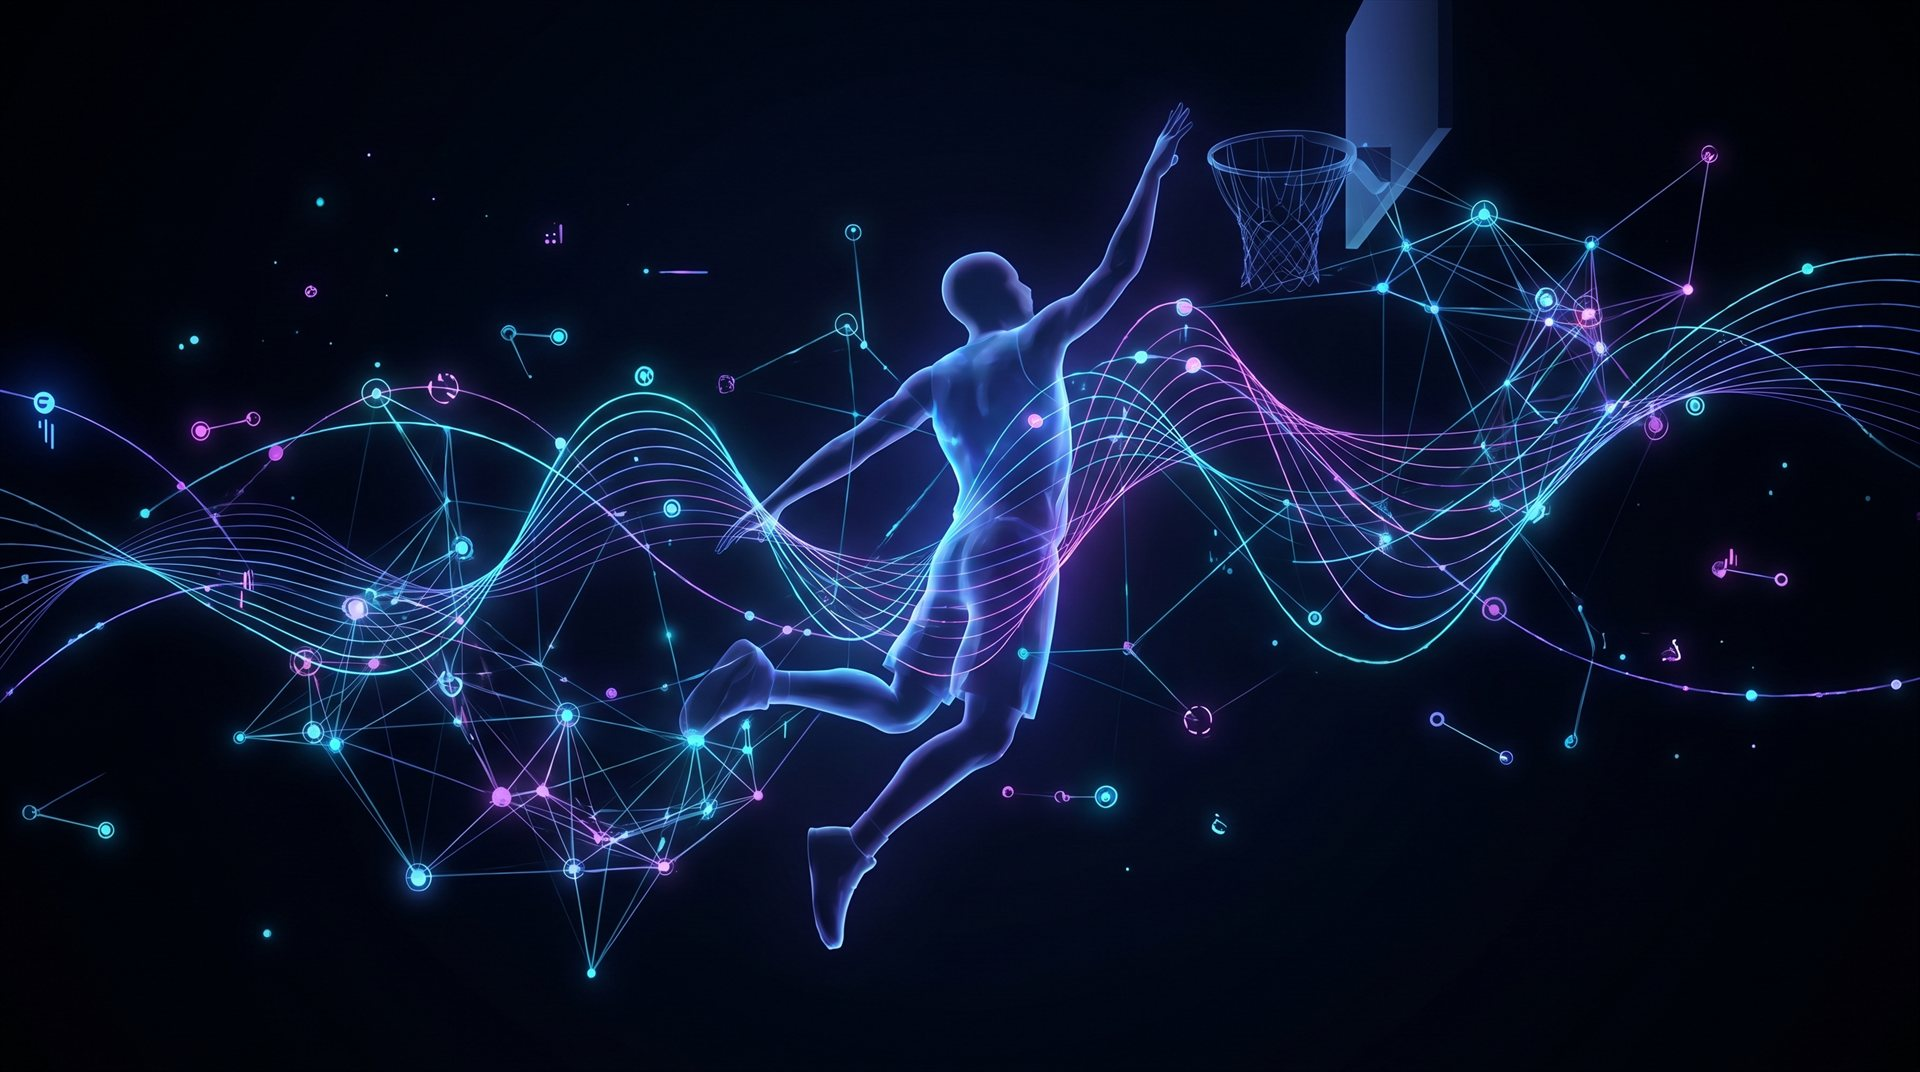
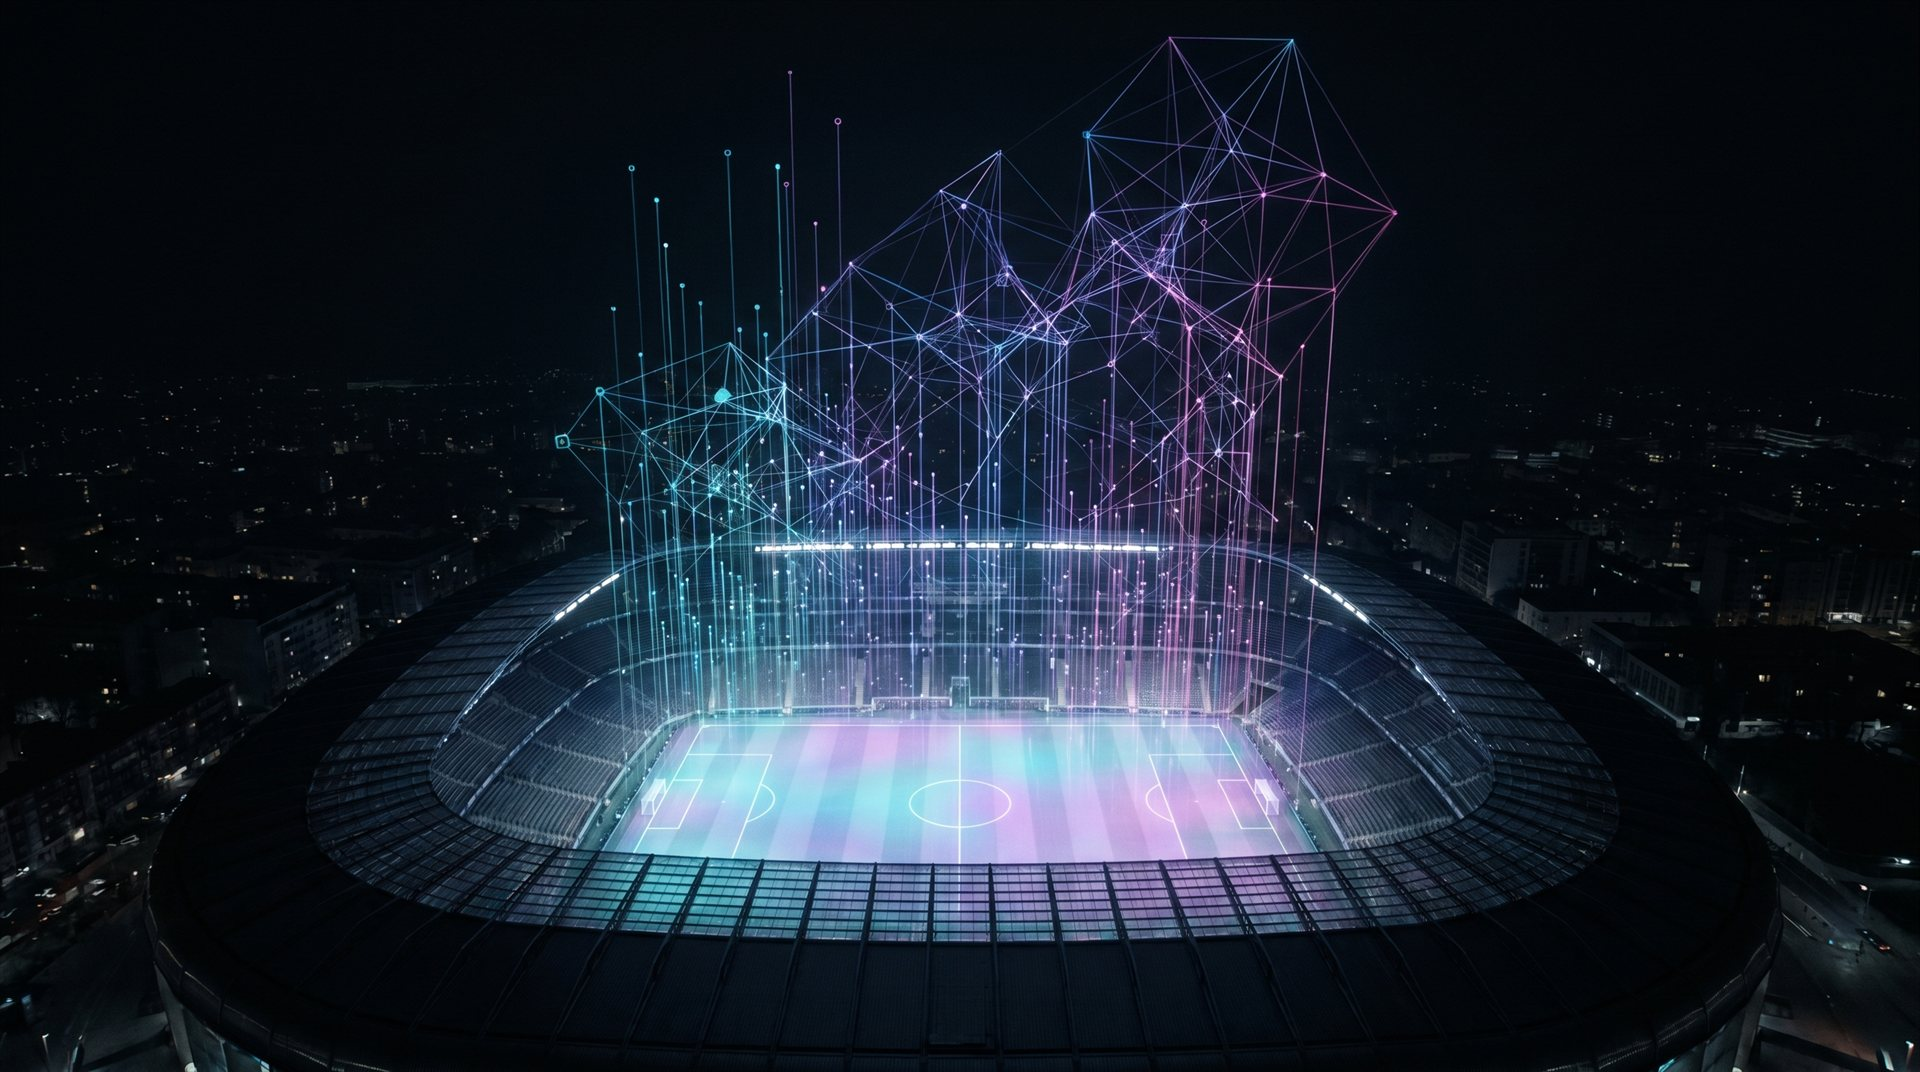
Content polish: restore hero title, remove Babe Ruth, tighten copy
Home page:
- Restore "Revolutionizing Sports Finance" as the hero h1
- New lead copy: tokenize cards / trade with every game / Solana
- Pitch section reframed: "Physical cards become digital assets"
- Stat label: "Vault Partners Onboarded" (was ungrammatical "Onboarding")

Babe Ruth removal: replaced every reference (7 total across home,
how-it-works, why-tokenize, whitepaper) with generic phrasing —
"a million-dollar card", "a card worth millions", "whole card value".

Oracle:
- Regenerated hero image: stadium-at-night with data streams
  (replaces the basketball-player silhouette)
- Tightened museum/stock compare copy (less marketing fluff)
- Viral-moments card rephrased ("your marketing engine" -> cleaner)

Whitepaper rewrites (was verbatim from the owner brief):
- Executive Summary
- 3-step workflow paragraphs
- Presale Phases intro
- Oracle intro + museum/stock analogy

Spacing: section vertical padding reduced
  desktop 120 -> 80px, tablet 80 -> 60px, mobile 60 -> 44px
  .wp-section 56 -> 40px, .benefit-row 56 -> 40px

Fix: for-collectors heading "Five wins" -> "Six wins" (matches the
6 cards in the grid).

diff --git a/whitepaper.html b/whitepaper.html
@@ -55,8 +55,8 @@
   <!-- Executive Summary -->
   <section class="wp-section reveal">
     <h2>Executive Summary</h2>
-    <p>Sports Pay Coin (SPC) transforms physical sports cards into dynamic, tradable assets through fractional ownership, dual-token utility, and real-time performance pricing. The result: liquidity for collectors, access for fans, and a 24/7 market that reacts to every game, every play, every moment.</p>
-    <p>This whitepaper covers the tokenization workflow, the Sports Oracle that powers dynamic pricing, our token economics, presale structure, and the roadmap to a live exchange.</p>
+    <p>Sports Pay Coin (SPC) takes high-value physical sports cards and turns them into liquid, fractional, on-chain assets. The exchange runs 24/7. A Sports Oracle prices each token to live game performance. Collectors get liquidity, fans get access, and dealers get a market they can move size on without discounting inventory.</p>
+    <p>This whitepaper covers the tokenization workflow, the Sports Oracle, the token economics, the presale structure, and the roadmap to a live exchange.</p>
   </section>
 
   <!-- The Problem -->
@@ -71,7 +71,7 @@
       <div class="wp-card">
         <div class="ic">🚪</div>
         <h3>Locked-Out Fans</h3>
-        <p>A $6M Babe Ruth or a million-dollar LeBron rookie is unreachable for the everyday fan. The collector market has become a club for the wealthy.</p>
+        <p>A million-dollar rookie card is unreachable for the everyday fan. The collector market has become a club for the wealthy.</p>
       </div>
       <div class="wp-card">
         <div class="ic">🎭</div>
@@ -116,13 +116,13 @@
     <h2>The Tokenization Workflow</h2>
 
     <h3>Step 1: Asset Initiation &amp; Vaulting</h3>
-    <p>The user submits their high-value sports memorabilia or card to one of our specialized, partnered vault facilities. These established professional vaults ensure physical security and authenticity from the moment of receipt.</p>
+    <p>You ship your card to one of our partnered vault facilities. They handle authentication, climate-controlled storage, and full insurance from the moment it arrives. Vaults are established collectibles facilities — not something we built from scratch.</p>
 
     <h3>Step 2: Certification &amp; Digital Minting</h3>
-    <p>The vault partner conducts rigorous certification — high-resolution imaging, physical authentication, grading verification. Once certified, the asset's unique data is minted as a tokenized asset on the Sports Pay Coin blockchain, creating an immutable digital twin that serves as proof of ownership and provenance.</p>
+    <p>The vault partner authenticates the card, grades it if needed, and produces high-resolution imaging. Those records get minted on-chain as a digital twin — proof of ownership and provenance that can't be altered or faked.</p>
 
     <h3>Step 3: Liquidity &amp; Exchange Listing</h3>
-    <p>The newly tokenized asset goes live on our proprietary exchange. Users can buy, sell, or trade the asset instantly using Sports Pay Coin as the native currency — unlocking liquidity previously impossible with physical collectibles.</p>
+    <p>The token lists on the SPC exchange. Anyone can buy, sell, or trade it — whole or fractional — using SPC as the native currency. Settlement is instant. No more waiting weeks for an auction to close, or paying 10% to a house to do it.</p>
   </section>
 
   <!-- Tokenomics -->
@@ -161,7 +161,7 @@
   <!-- Presale Phases -->
   <section class="wp-section reveal">
     <h2>Presale Phases</h2>
-    <p style="max-width: 70ch; margin-bottom: 28px;">Sports Pay Coin launches through a structured four-phase presale to ensure fair distribution and progressive community building. Each phase offers unique opportunities for early supporters.</p>
+    <p style="max-width: 70ch; margin-bottom: 28px;">The SPC presale runs in four phases. Earlier phases get better pricing and bigger bonuses, in exchange for committing before the public launch.</p>
 
     <div class="wp-grid-4">
       <div class="wp-phase-card first">
@@ -218,7 +218,7 @@
       <div class="wp-card">
         <div class="ic">🃏</div>
         <h3>Fractional Card Ownership</h3>
-        <p>A $6M Babe Ruth card split into a million $6 shares. Anyone can own a piece of the cards they grew up watching.</p>
+        <p>A million-dollar card split into thousands of affordable shares. Anyone can own a piece of the cards they grew up watching.</p>
       </div>
       <div class="wp-card">
         <div class="ic">📊</div>
@@ -241,9 +241,9 @@
   <!-- The Oracle -->
   <section class="wp-section reveal">
     <h2>The Sports Oracle</h2>
-    <p style="max-width: 70ch;">The Sports Oracle is a trusted data feed that brings real-world sports information on-chain — final scores, player statistics, injury reports, social sentiment, and betting odds. This data feeds smart contracts that automatically adjust token prices based on predefined rules.</p>
+    <p style="max-width: 70ch;">The Sports Oracle is the data feed that brings real-world sports information on-chain — final scores, player statistics, injury reports, social sentiment, and betting odds. Smart contracts read that feed and adjust token prices according to rules set in advance, with no human in the loop.</p>
 
-    <p style="max-width: 70ch; margin-top: 14px;"><em>Without an oracle: your token price moves like a museum painting — only when someone buys or sells. With an oracle: your token price moves like a public stock — reacting instantly to games, news, and fan sentiment.</em></p>
+    <p style="max-width: 70ch; margin-top: 14px;"><em>Without an oracle, a tokenized card behaves like a museum painting — its price only moves when someone buys or sells. With an oracle, it behaves like a public stock — reacting to games, news, and sentiment in real time.</em></p>
 
     <h3 style="margin-top: 28px;">Oracle Capabilities</h3>
     <ul class="wp-bullets">

diff --git a/oracle.html b/oracle.html
@@ -60,14 +60,14 @@
     <div class="section-head reveal">
       <span class="eyebrow"><span class="dot"></span>The Big Idea</span>
       <h2 class="h-section">Museum painting, or <span class="gradient-text">public stock?</span></h2>
-      <p class="lead">The difference between owning a static collectible and owning a living, breathing asset.</p>
+      <p class="lead">The difference between holding a static collectible and holding one that responds to the game.</p>
     </div>
 
     <div class="compare-grid">
       <div class="compare-card compare-old reveal">
         <span class="compare-tag">Without Oracle</span>
         <h3>Museum Painting</h3>
-        <p>Your sports card token sits there. Price only moves when someone buys or sells. The game has nothing to do with it.</p>
+        <p>The token sits there. Its price only moves when someone buys or sells. The game has nothing to do with it.</p>
         <ul class="compare-list">
           <li><span class="cmark off">×</span> No reaction to live games</li>
           <li><span class="cmark off">×</span> Disconnected from performance</li>
@@ -78,7 +78,7 @@
       <div class="compare-card compare-new reveal">
         <span class="compare-tag">With Oracle</span>
         <h3>Public Stock</h3>
-        <p>Your token becomes a living asset. It reacts to news, performance, and public sentiment the moment it happens.</p>
+        <p>The token responds to every play. News, performance, and sentiment all feed in, in real time.</p>
         <ul class="compare-list">
           <li><span class="cmark on">✓</span> Reacts to every play, every game</li>
           <li><span class="cmark on">✓</span> Tracks performance + sentiment</li>
@@ -200,7 +200,7 @@
       <div class="wp-card reveal">
         <div class="ic">🚀</div>
         <h3>Viral moments</h3>
-        <p>"My LeBron token just printed 15% overnight." Users become your marketing engine.</p>
+        <p>"My LeBron token just printed 15% overnight." Holders end up doing the marketing.</p>
       </div>
       <div class="wp-card reveal">
         <div class="ic">🎮</div>

diff --git a/index.html b/index.html
@@ -54,9 +54,9 @@
       <div class="coin-hint">Drag to spin · double-click for a flick</div>
     </div>
 
-    <h1 class="h-display hero-eyebrow-gone">Tokenize sports cards. <span class="gradient-text">Trade every play.</span></h1>
+    <h1 class="h-display hero-eyebrow-gone">Revolutionizing <span class="gradient-text">Sports Finance</span></h1>
 
-    <p class="lead">Sports Pay Coin transforms physical sports cards into dynamic, tradable assets — fractional ownership, dual-token utility, and real-time oracle pricing. A 24/7 market that reacts to every game.</p>
+    <p class="lead">Tokenize high-value sports cards, trade with every game, and own a piece of the cards you grew up watching. A 24/7 market on Solana that reacts to every play.</p>
 
     <div class="hero-ctas">
       <a href="#presale" class="btn btn-grad btn-lg">
@@ -106,9 +106,9 @@
 <section id="pitch">
   <div class="container">
     <div class="section-head reveal">
-      <span class="eyebrow"><span class="dot"></span>One-Sentence Pitch</span>
-      <h2 class="h-section">A $6M Babe Ruth, for the price of a <span class="gradient-text">coffee.</span></h2>
-      <p class="lead">SPC turns physical sports cards into liquid, fractional, on-chain assets. The exchange runs 24/7. The oracle prices each token to live performance. Anyone can own a piece.</p>
+      <span class="eyebrow"><span class="dot"></span>What is SPC?</span>
+      <h2 class="h-section">Physical cards become <span class="gradient-text">digital assets.</span></h2>
+      <p class="lead">Sports Pay Coin turns high-value sports memorabilia into liquid, fractional, on-chain assets. The exchange runs 24/7. The oracle prices each token to live game performance.</p>
     </div>
 
     <div class="hero-image-frame reveal">
@@ -209,7 +209,7 @@
           </svg>
         </div>
         <div class="stat-num" data-count="12" data-suffix="+">0</div>
-        <div class="stat-label">Vault Partners Onboarding</div>
+        <div class="stat-label">Vault Partners Onboarded</div>
       </div>
       <div class="stat reveal">
         <div class="stat-icon">

diff --git a/styles.css b/styles.css
@@ -41,7 +41,7 @@
 
   /* Spacing */
   --container: 1200px;
-  --section-y: 120px;
+  --section-y: 80px;
 
   /* Radius */
   --r-sm: 8px;
@@ -1756,7 +1756,7 @@ section {
    ========================================================= */
 
 @media (max-width: 980px) {
-  :root { --section-y: 80px; }
+  :root { --section-y: 60px; }
   .howto-grid, .vision-grid, .tokenomics-teaser, .dist-grid, .econ-grid { grid-template-columns: 1fr; gap: 28px; }
   .feature-grid, .specs-grid, .phases, .utility-grid { grid-template-columns: repeat(2, 1fr); }
   .stats-row { grid-template-columns: 1fr; }
@@ -1770,7 +1770,7 @@ section {
 }
 
 @media (max-width: 600px) {
-  :root { --section-y: 60px; }
+  :root { --section-y: 44px; }
   .feature-grid, .specs-grid, .phases, .utility-grid { grid-template-columns: 1fr; }
   .countdown-grid { grid-template-columns: repeat(2, 1fr); }
   .container { padding: 0 18px; }
@@ -1805,7 +1805,7 @@ section {
   box-shadow: inset 0 0 0 1px var(--hairline);
 }
 .wp-section {
-  padding: 56px 0;
+  padding: 40px 0;
 }
 .wp-section + .wp-section {
   border-top: 1px solid var(--hairline);
@@ -2544,7 +2544,7 @@ section {
   grid-template-columns: auto 1fr;
   gap: 40px;
   align-items: flex-start;
-  padding: 56px 0;
+  padding: 40px 0;
   border-top: 1px solid var(--hairline);
 }
 .benefit-row.reverse {

diff --git a/why-tokenize.html b/why-tokenize.html
@@ -51,7 +51,7 @@
     <div class="stat-strip reveal">
       <div class="stat-strip-cell">
         <div class="stat-strip-num"><span data-count="6" data-prefix="$" data-suffix="M">$0M</span></div>
-        <div class="stat-strip-lbl">Babe Ruth card · whole</div>
+        <div class="stat-strip-lbl">Whole card value</div>
       </div>
       <div class="stat-strip-divider">→</div>
       <div class="stat-strip-cell">
@@ -75,7 +75,7 @@
       <div class="benefit-content">
         <span class="eyebrow"><span class="dot"></span>Democratization of Collecting</span>
         <h2>Fractional Ownership</h2>
-        <p>High-value cards — a $6M Babe Ruth, a million-dollar LeBron rookie — split into thousands of affordable shares at $3 each. Suddenly every fan can own a piece of a card they could never afford outright.</p>
+        <p>High-value cards that once sold for millions get split into thousands of affordable shares at $3 each. Every fan can own a piece of a card they could never afford whole.</p>
         <p class="body-muted">The user base expands from a handful of high-net-worth collectors to the millions of fans who follow the sport.</p>
       </div>
     </div>

diff --git a/how-it-works.html b/how-it-works.html
@@ -107,7 +107,7 @@
         </div>
         <div class="workflow-body">
           <h3>Liquidity &amp; exchange listing</h3>
-          <p>Your tokenized asset goes live on the proprietary Sports Pay Coin exchange. Anyone can buy a fractional share — as little as $3 of a $6M Babe Ruth card — using SPC as the native currency. Instant settlement. No auctions. No waiting.</p>
+          <p>Your tokenized asset goes live on the proprietary Sports Pay Coin exchange. Anyone can buy a fractional share — as little as $3 of a card worth millions — using SPC as the native currency. Instant settlement. No auctions. No waiting.</p>
           <ul class="wp-bullets">
             <li>List in minutes, not months</li>
             <li>Fractional shares — open to every fan</li>
@@ -138,7 +138,7 @@
           </svg>
         </div>
         <h3>Fractional Ownership</h3>
-        <p>Split a $6M Babe Ruth into thousands of $3 shares. Democratizes access to elite collectibles.</p>
+        <p>Split a million-dollar card into thousands of $3 shares. Democratizes access to elite collectibles.</p>
       </div>
 
       <div class="feature-card reveal">

diff --git a/for-collectors.html b/for-collectors.html
@@ -82,7 +82,7 @@
   <div class="container">
     <div class="section-head reveal">
       <span class="eyebrow"><span class="dot"></span>What You Get</span>
-      <h2 class="h-section">Five wins for <span class="gradient-text">every collector.</span></h2>
+      <h2 class="h-section">Six wins for <span class="gradient-text">every collector.</span></h2>
     </div>
 
     <div class="feature-grid">

diff --git a/for-dealers.html b/for-dealers.html
@@ -115,7 +115,7 @@
   </div>
 </section>
 
-<!-- Five wins for dealers -->
+<!-- Six wins for dealers -->
 <section>
   <div class="container">
     <div class="section-head reveal">
